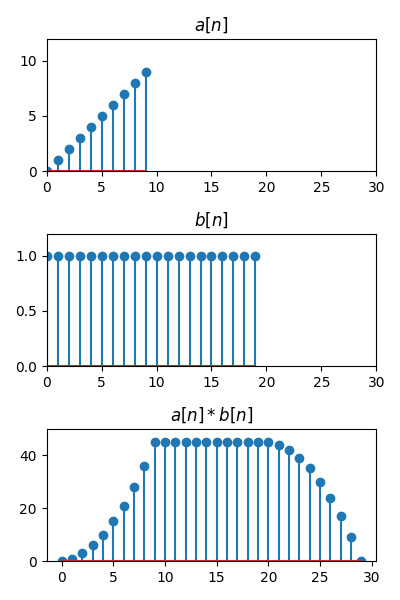
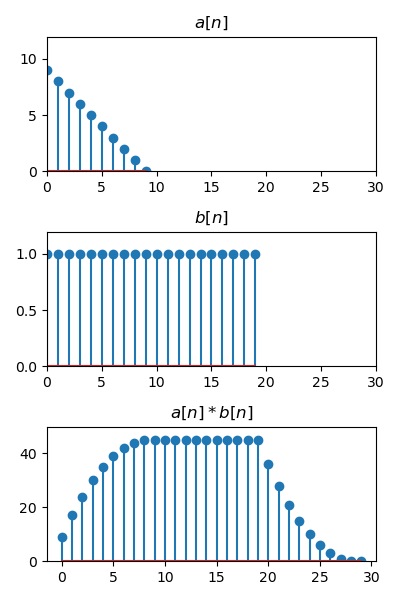
Obvious improvement on fft-convolution-example-fig

diff --git a/code/021_fft_convolution/fft_convolution.py b/code/021_fft_convolution/fft_convolution.py
@@ -6,7 +6,7 @@ import numpy as n
 import matplotlib.pyplot as plt
 import scipy.signal as s
 # input signals to be convolved
-a=n.arange(10)
+a=n.flip(n.arange(10))
 b=n.ones(20)
 
 # zero-padded FFT (10+20=30)
